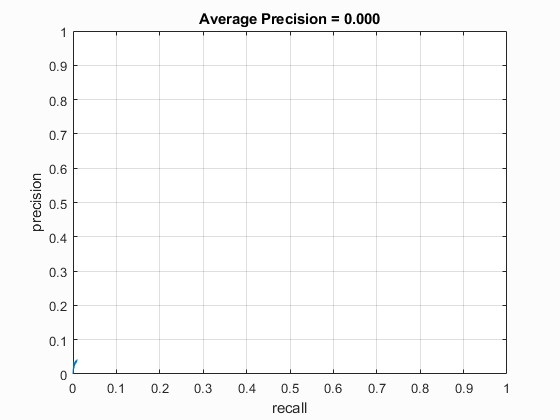
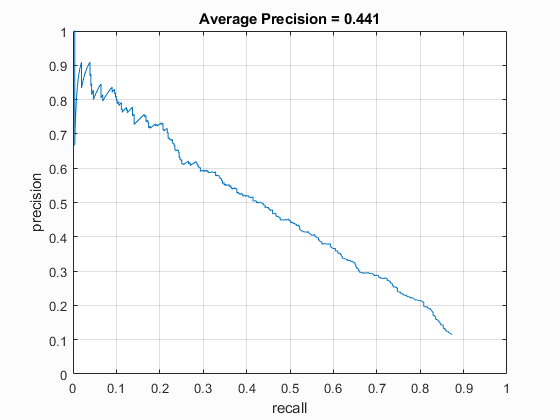
UPDATE: scaling factor upgraded

diff --git a/detect.m b/detect.m
@@ -12,58 +12,63 @@ ib = 0;
 confidences = zeros(0,1);
 image_names = cell(0,1);
 
+facts = [0.9 0.8 0.7 0.5 0.6 0.4 0.3];
 cellSize = 6;
 dim = 36;
 for i=1:nImages
     % load and show the image
-    im = im2single(imread(sprintf('%s/%s',imageDir,imageList(i).name)));
-    imshow(im);
+    image = im2single(imread(sprintf('%s/%s',imageDir,imageList(i).name)));
+    imshow(image);
     hold on;
-    
-    % generate a grid of features across the entire image. you may want to 
-    % try generating features more densely (i.e., not in a grid)
-    feats = vl_hog(im,cellSize);
-    
-    % concatenate the features into 6x6 bins, and classify them (as if they
-    % represent 36x36-pixel faces)
-    [rows,cols,~] = size(feats);    
-    confs = zeros(rows,cols);
-    
-    for r=1:rows-11
-        for c=1:cols-11
-
-        % create feature vector for the current window and classify it using the SVM model, 
-        x = feats(r:r+11, c:c+11, :);
-        % take dot product between feature vector and w and add b,
-        pred = dot(w, x(:)) + b;
-        % store the result in the matrix of confidence scores confs(r,c)
-        confs(r, c)= pred;
-        end
-    end
-       
-    % get the most confident predictions 
-    [~,inds] = sort(confs(:),'descend');
-    inds = inds(1:floor((rows*cols)/dim)); % (use a bigger number for better recall)
     aboxes = [];
     aconfs = [];
-    for n=1:numel(inds)        
-        [row,col] = ind2sub([size(feats,1) size(feats,2)],inds(n));
         
-        bbox = [ col*cellSize ...
-                 row*cellSize ...
-                (col+cellSize-1)*cellSize ...
-                (row+cellSize-1)*cellSize];
-        conf = confs(row,col);
-        % save    
-        aboxes = [aboxes; bbox];
-        aconfs = [aconfs; conf];
+    for fact=facts
+        im = imresize(image,fact);
         
+        % generate a grid of features across the entire image. you may want to 
+        % try generating features more densely (i.e., not in a grid)
+        feats = vl_hog(im,cellSize);
+
+        % concatenate the features into 6x6 bins, and classify them (as if they
+        % represent 36x36-pixel faces)
+        [rows,cols,~] = size(feats);    
+        confs = zeros(rows,cols);
+
+        for r=1:rows-5
+            for c=1:cols-5
+
+            % create feature vector for the current window and classify it using the SVM model, 
+            x = feats(r:r+5, c:c+5, :);
+            % take dot product between feature vector and w and add b,
+            pred = dot(w, x(:)) + b;
+            % store the result in the matrix of confidence scores confs(r,c)
+            confs(r, c)= pred;
+            end
+        end
+
+        % get the most confident predictions 
+        [~,inds] = sort(confs(:),'descend');
+        inds = inds(1:floor((rows*cols)/dim)); % (use a bigger number for better recall)
+        for n=1:numel(inds)        
+            [row,col] = ind2sub([size(feats,1) size(feats,2)],inds(n));
+
+            bbox = [ col*cellSize./fact ...
+                     row*cellSize./fact ...
+                    (col+cellSize-1)*cellSize./fact ...
+                    (row+cellSize-1)*cellSize./fact];
+            conf = confs(row,col);
+            % save    
+            aboxes = [aboxes; bbox];
+            aconfs = [aconfs; conf];
+
+        end
     end
     
     for index = 1:size(aboxes, 1)
         conf = aconfs(index);
         bbox = aboxes(index, :);
-        if (conf > 0.6)
+        if (conf > 0.9)
             for k=1:size(aconfs, 1)
                 pbox = aboxes(k, :);
                 bi=[max(bbox(1),pbox(1)) ; max(bbox(2),pbox(2)) ; min(bbox(3),pbox(3)) ; min(bbox(4),pbox(4))];

diff --git a/get_features.m b/get_features.m
@@ -18,8 +18,8 @@ valid_neg_imageDir = 'validate_neg_images';
 valid_neg_imageList = dir(sprintf('%s/*.jpg',valid_neg_imageDir));
 valid_neg_nImages = length(valid_neg_imageList);
 
-cellSize = 3;
-featSize = 31*12^2;
+cellSize = 6;
+featSize = 31*cellSize^2;
 
 x_pos_train = zeros(pos_nImages,featSize);
 for i=1:pos_nImages

diff --git a/train_svm.m b/train_svm.m
@@ -9,7 +9,7 @@ valid_feats = cat(1,x_pos_valid,x_neg_valid);
 valid_labels = cat(1,ones(valid_pos_nImages,1),-1*ones(valid_neg_nImages,1));
 
 
-lambda = 0.1;
+lambda = 0.00005;
 [w,b] = vl_svmtrain(feats',labels',lambda);
 
 fprintf('Classifier performance on train data:\n')
